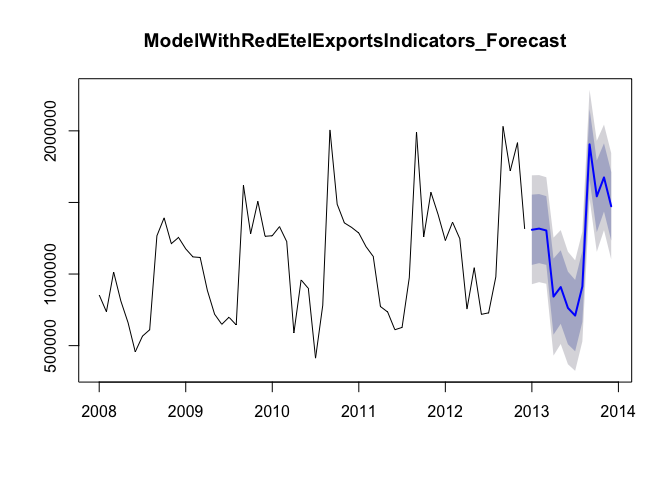
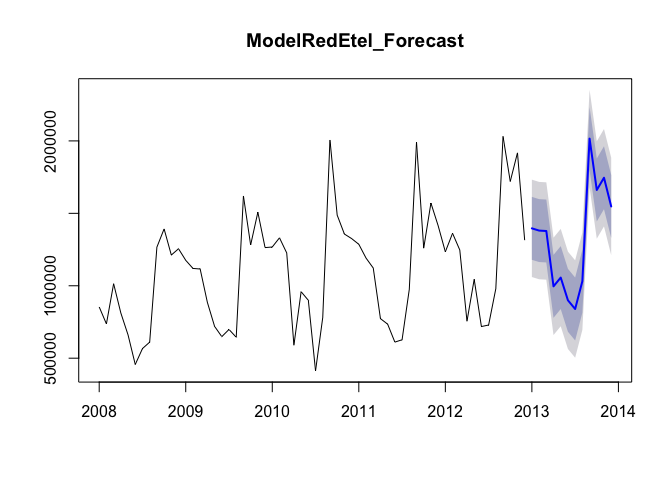
Add files via upload

diff --git a/analysis/data/5.md b/analysis/data/5.md
@@ -17,11 +17,10 @@ July 7, 2016
 * 5.2.1.2 [Forecast ModelWithLowCorrelatingIndicators](#id-section5.2.1.2)
 * 5.2.2   [Forecast ModelWithTrendAndSeasonalityOnly](#id-section5.2.2)
 * 5.2.3   [Forecast ModelWithRedEtelExportsIndicators](#id-section5.2.3)
-* 5.2.4   [Forecast ModelWithRedEtelExportsIndicators](#id-section5.2.4)
-* 5.2.5   [Forecast ModelTotalRedEtel](#id-section5.2.5)
-* 5.2.6   [Forecast ModelWithTotalUrbanoExport](#id-section5.2.6)
-* 5.2.7   [Forecast ModelWithNationalHolidays](#id-section5.2.7)
-* 5.2.8   [Forecast ModelWithInfluenceNationalHoliday](#id-section5.2.8)
+* 5.2.4   [Forecast ModelTotalRedEtel](#id-section5.2.4)
+* 5.2.5   [Forecast ModelWithTotalUrbanoExport](#id-section5.2.5)
+* 5.2.6   [Forecast ModelWithNationalHolidays](#id-section5.2.6)
+* 5.2.7   [Forecast ModelWithInfluenceNationalHoliday](#id-section5.2.7)
 
 ****************************
 <div id='id-section5.0'/>
@@ -953,267 +952,10 @@ cor(RedEtelAsIs_2013, RedEtelPlan_2013)
 ## [1] 0.9570811
 ```
 
+
 ****************************
 <div id='id-section5.2.4'/>
-####  5.2.4 Forecast ModelWithRedEtelExportsIndicators
-
-Shorten the variable in ModelWithRedEtelExportsIndicators by one year in order to be able to produce a forecast for 2013.
-
-
-```r
-ModelWithRedEtelExportsIndicators_2012 <- tslm(RedEtelAsIs_2012 ~ trend + season + CEPI_2012 + UrbanoExports_2012 + AEPI_2012 + GlobalisationPartyMembers_2012)
-ModelRedEtelWithCEPI_2012 <- tslm(RedEtelAsIs_2012 ~ trend + season + CEPI_2012)
-ModelRedEtelWithTrendAndSeasonalityOnly_2012 <- tslm(RedEtelAsIs_2012 ~ trend + season)
-summary(ModelWithRedEtelExportsIndicators_2012) 
-```
-
-```
-## 
-## Call:
-## tslm(formula = RedEtelAsIs_2012 ~ trend + season + CEPI_2012 + 
-##     UrbanoExports_2012 + AEPI_2012 + GlobalisationPartyMembers_2012)
-## 
-## Residuals:
-##     Min      1Q  Median      3Q     Max 
-## -310063  -71933    4597   67551  274590 
-## 
-## Coefficients:
-##                                  Estimate Std. Error t value Pr(>|t|)    
-## (Intercept)                    -9.586e+06  8.006e+06  -1.197 0.237735    
-## trend                          -1.735e+03  1.159e+04  -0.150 0.881706    
-## season2                        -7.592e+04  9.831e+04  -0.772 0.444211    
-## season3                        -1.199e+05  1.115e+05  -1.075 0.288386    
-## season4                        -4.874e+05  1.066e+05  -4.571 4.07e-05 ***
-## season5                        -4.521e+05  1.083e+05  -4.176 0.000142 ***
-## season6                        -6.078e+05  1.100e+05  -5.524 1.79e-06 ***
-## season7                        -6.979e+05  1.206e+05  -5.785 7.51e-07 ***
-## season8                        -5.229e+05  1.239e+05  -4.221 0.000123 ***
-## season9                         4.834e+05  1.231e+05   3.927 0.000306 ***
-## season10                        1.208e+05  1.224e+05   0.987 0.329051    
-## season11                        2.082e+05  1.231e+05   1.692 0.097935 .  
-## season12                       -4.863e+04  1.384e+05  -0.351 0.727096    
-## CEPI_2012                       1.729e+05  1.039e+05   1.663 0.103492    
-## UrbanoExports_2012             -1.351e-01  2.856e-01  -0.473 0.638617    
-## AEPI_2012                      -5.991e+04  3.374e+04  -1.776 0.082849 .  
-## GlobalisationPartyMembers_2012  8.701e+00  2.135e+01   0.407 0.685674    
-## ---
-## Signif. codes:  0 '***' 0.001 '**' 0.01 '*' 0.05 '.' 0.1 ' ' 1
-## 
-## Residual standard error: 142800 on 43 degrees of freedom
-## Multiple R-squared:  0.9057,	Adjusted R-squared:  0.8707 
-## F-statistic: 25.82 on 16 and 43 DF,  p-value: < 2.2e-16
-```
-
-```r
-summary(ModelRedEtelWithCEPI_2012) 
-```
-
-```
-## 
-## Call:
-## tslm(formula = RedEtelAsIs_2012 ~ trend + season + CEPI_2012)
-## 
-## Residuals:
-##     Min      1Q  Median      3Q     Max 
-## -334534  -92127   16612   92404  275097 
-## 
-## Coefficients:
-##             Estimate Std. Error t value Pr(>|t|)    
-## (Intercept)  3858853    3094908   1.247 0.218768    
-## trend           9967       3956   2.520 0.015279 *  
-## season2        -9465      94668  -0.100 0.920796    
-## season3       -10516      96386  -0.109 0.913594    
-## season4      -403828      95363  -4.235 0.000108 ***
-## season5      -350826      95192  -3.685 0.000600 ***
-## season6      -515220      95050  -5.420 2.12e-06 ***
-## season7      -577095      96073  -6.007 2.83e-07 ***
-## season8      -392424      96037  -4.086 0.000174 ***
-## season9       580947      95234   6.100 2.05e-07 ***
-## season10      215762      94776   2.277 0.027514 *  
-## season11      289327      94502   3.062 0.003670 ** 
-## season12       94750      95840   0.989 0.328019    
-## CEPI_2012     -29550      32004  -0.923 0.360650    
-## ---
-## Signif. codes:  0 '***' 0.001 '**' 0.01 '*' 0.05 '.' 0.1 ' ' 1
-## 
-## Residual standard error: 148100 on 46 degrees of freedom
-## Multiple R-squared:  0.8915,	Adjusted R-squared:  0.8608 
-## F-statistic: 29.07 on 13 and 46 DF,  p-value: < 2.2e-16
-```
-
-```r
-summary(ModelRedEtelWithTrendAndSeasonalityOnly_2012) 
-```
-
-```
-## 
-## Call:
-## tslm(formula = RedEtelAsIs_2012 ~ trend + season)
-## 
-## Residuals:
-##     Min      1Q  Median      3Q     Max 
-## -361228  -84581   16694   93341  249192 
-## 
-## Coefficients:
-##             Estimate Std. Error t value Pr(>|t|)    
-## (Intercept)  1001982      71882  13.939  < 2e-16 ***
-## trend           6466       1125   5.746 6.50e-07 ***
-## season2       -21921      93555  -0.234 0.815761    
-## season3       -31292      93576  -0.334 0.739565    
-## season4      -419920      93609  -4.486 4.67e-05 ***
-## season5      -365782      93657  -3.906 0.000299 ***
-## season6      -529038      93718  -5.645 9.24e-07 ***
-## season7      -595687      93792  -6.351 7.90e-08 ***
-## season8      -410470      93880  -4.372 6.77e-05 ***
-## season9       567584      93981   6.039 2.35e-07 ***
-## season10      206490      94095   2.194 0.033178 *  
-## season11      284738      94223   3.022 0.004056 ** 
-## season12       80069      94364   0.849 0.400451    
-## ---
-## Signif. codes:  0 '***' 0.001 '**' 0.01 '*' 0.05 '.' 0.1 ' ' 1
-## 
-## Residual standard error: 147900 on 47 degrees of freedom
-## Multiple R-squared:  0.8895,	Adjusted R-squared:  0.8613 
-## F-statistic: 31.53 on 12 and 47 DF,  p-value: < 2.2e-16
-```
-
-Add "newdata" to the 2013 indicator values for the forecast.
-
-
-```r
-ModelWithRedEtelExportsIndicators_Forecast <- forecast(ModelWithRedEtelExportsIndicators_2012, newdata=data.frame(CEPI_2012=CEPI_2013, UrbanoExports_2012 = UrbanoExports_2013, AEPI_2012 = AEPI_2013, GlobalisationPartyMembers_2012 = GlobalisationPartyMembers_2013),h=12)
-ModelRedEtelWithCEPI_Forecast <- forecast(ModelRedEtelWithCEPI_2012, , newdata=data.frame(CEPI_2012=CEPI_2013), h=12)
-ModelRedEtelWithTrendAndSeasonalityOnly_Forecast <- forecast(ModelRedEtelWithTrendAndSeasonalityOnly_2012,h=12)
-
-plot(ModelWithRedEtelExportsIndicators_Forecast, main="ModelWithRedEtelExportsIndicators_Forecast")
-```
-
-![](5_files/figure-html/unnamed-chunk-26-1.png)<!-- -->
-
-```r
-plot(ModelRedEtelWithCEPI_Forecast, main="ModelRedEtelWithEPI_Forecast")
-```
-
-![](5_files/figure-html/unnamed-chunk-26-2.png)<!-- -->
-
-```r
-plot(ModelRedEtelWithTrendAndSeasonalityOnly_Forecast, main="ModelRedEtelWithTrendAndSeasonalityOnly_Forecast")
-```
-
-![](5_files/figure-html/unnamed-chunk-26-3.png)<!-- -->
-
-```r
-ModelWithRedEtelExportsIndicators_Forecast
-```
-
-```
-##          Point Forecast     Lo 80   Hi 80     Lo 95   Hi 95
-## Jan 2013      1309201.5 1063835.7 1554567  929018.9 1689384
-## Feb 2013      1317299.7 1076084.5 1558515  943548.2 1691051
-## Mar 2013      1304123.3 1064147.8 1544099  932292.6 1675954
-## Apr 2013       842437.3  576699.8 1108175  430689.7 1254185
-## May 2013       909234.6  652670.4 1165799  511700.5 1306769
-## Jun 2013       763091.2  509486.3 1016696  370142.5 1156040
-## Jul 2013       709787.4  460773.9  958801  323952.8 1095622
-## Aug 2013       912939.9  665434.4 1160445  529442.0 1296438
-## Sep 2013      1905573.4 1660339.1 2150808 1525594.5 2285552
-## Oct 2013      1542594.5 1292534.3 1792655 1155138.2 1930051
-## Nov 2013      1674790.3 1436983.4 1912597 1306319.9 2043261
-## Dec 2013      1473404.1 1234164.6 1712644 1102713.9 1844094
-```
-
-```r
-ModelRedEtelWithCEPI_Forecast
-```
-
-```
-##          Point Forecast     Lo 80   Hi 80     Lo 95   Hi 95
-## Jan 2013      1378827.7 1159920.8 1597735 1039935.8 1717720
-## Feb 2013      1361599.7 1142396.4 1580803 1022248.9 1700951
-## Mar 2013      1355740.1 1135980.5 1575500 1015528.2 1695952
-## Apr 2013       987170.4  769322.1 1205019  649917.3 1324424
-## May 2013      1038318.9  819316.3 1257322  699278.9 1377359
-## Jun 2013       880937.5  661836.1 1100039  541744.5 1220131
-## Jul 2013       814254.1  593861.1 1034647  473061.6 1155446
-## Aug 2013      1008891.5  789131.9 1228651  668679.6 1349103
-## Sep 2013      1992229.7 1772226.0 2212233 1651639.9 2332819
-## Oct 2013      1642921.1 1423918.5 1861924 1303881.1 1981961
-## Nov 2013      1720543.3 1500150.3 1940936 1379350.8 2061736
-## Dec 2013      1524113.3 1304109.6 1744117 1183523.5 1864703
-```
-
-```r
-ModelRedEtelWithTrendAndSeasonalityOnly_Forecast
-```
-
-```
-##          Point Forecast     Lo 80   Hi 80     Lo 95   Hi 95
-## Jan 2013      1396410.2 1179316.7 1613504 1060414.4 1732406
-## Feb 2013      1380955.2 1163861.7 1598049 1044959.4 1716951
-## Mar 2013      1378050.6 1160957.1 1595144 1042054.8 1714046
-## Apr 2013       995887.8  778794.3 1212981  659892.0 1331884
-## May 2013      1056492.4  839398.9 1273586  720496.6 1392488
-## Jun 2013       899702.0  682608.5 1116795  563706.2 1235698
-## Jul 2013       839519.6  622426.1 1056613  503523.8 1175515
-## Aug 2013      1031202.0  814108.5 1248295  695206.2 1367198
-## Sep 2013      2015722.2 1798628.7 2232816 1679726.4 2351718
-## Oct 2013      1661094.6 1444001.1 1878188 1325098.8 1997090
-## Nov 2013      1745808.8 1528715.3 1962902 1409813.0 2081805
-## Dec 2013      1547605.8 1330512.3 1764699 1211610.0 1883602
-```
-
-In order to be able to correlate the Forecast with the As Is data, it is necessary to convert the Point 
-
-<strong>Estimator into a time series.</strong>
-
-
-```r
-ModelWithRedEtelExportsIndicators_Forecast_df <-as.data.frame(ModelWithRedEtelExportsIndicators_Forecast) 
-ModelRedEtelWithCEPI_Forecast_df <-as.data.frame(ModelRedEtelWithCEPI_Forecast) 
-ModelRedEtelWithTrendAndSeasonalityOnly_Forecast_df <-as.data.frame(ModelRedEtelWithTrendAndSeasonalityOnly_Forecast)
-ModelWithRedEtelExportsIndicators_PointForecast <- ts(ModelWithRedEtelExportsIndicators_Forecast_df$"Point Forecast", start=c(2013,1), end=c(2013,12), frequency=12)
-ModelRedEtelWithCEPI_PointForecast <- ts(ModelRedEtelWithCEPI_Forecast_df$"Point Forecast", start=c(2013,1), end=c(2013,12), frequency=12)
-ModelRedEtelWithTrendAndSeasonalityOnly_PointForecast <- ts(ModelRedEtelWithTrendAndSeasonalityOnly_Forecast_df$"Point Forecast", start=c(2013,1), end=c(2013,12), frequency=12)
-```
-
-Correlation of the forecasts and As Is data. As a comparison, the correlation of the As Is data for 2013 with the Plan Data.
-
-
-```r
-cor(ModelWithRedEtelExportsIndicators_PointForecast, RedEtelAsIs_2013) 
-```
-
-```
-## [1] 0.9160346
-```
-
-```r
-cor(ModelRedEtelWithCEPI_PointForecast, RedEtelAsIs_2013) 
-```
-
-```
-## [1] 0.9314049
-```
-
-```r
-cor(ModelRedEtelWithTrendAndSeasonalityOnly_PointForecast, RedEtelAsIs_2013) 
-```
-
-```
-## [1] 0.9288154
-```
-
-```r
-cor(RedEtelAsIs_2013, RedEtelPlan_2013)
-```
-
-```
-## [1] 0.9570811
-```
-
-****************************
-<div id='id-section5.2.5'/>
-####  5.2.5 Forecast ModelTotalRedEtel
+####  5.2.4 Forecast ModelTotalRedEtel
 
 Shorten the variables in ModelTotalRedEtel by one year in order to be able to produce a forecast for 2013.
 
@@ -1264,7 +1006,7 @@ ModelRedEtel_Forecast <- forecast(ModelRedEtel_2012,h=12)
 plot(ModelRedEtel_Forecast,main="ModelRedEtel_Forecast")
 ```
 
-![](5_files/figure-html/unnamed-chunk-30-1.png)<!-- -->
+![](5_files/figure-html/unnamed-chunk-26-1.png)<!-- -->
 
 ```r
 ModelRedEtel_Forecast
@@ -1308,8 +1050,8 @@ cor(RedEtelPlan_2013, RedEtelAsIs_2013)
 ```
 
 ****************************
-<div id='id-section5.2.6'/>
-####  5.2.6 Forecast ModelWithTotalUrbanoExports
+<div id='id-section5.2.5'/>
+####  5.2.5 Forecast ModelWithTotalUrbanoExports
 
 Shorten the variables in ModelWithTotalUrbanoExports by one year in order to be able to produce a forecast for 2013.
 
@@ -1360,7 +1102,7 @@ ModelWithTotalUrbanoExports_Forecast <- forecast(ModelWithTotalUrbanoExports_201
 plot(ModelWithTotalUrbanoExports_Forecast,main="ModelWithTotalUrbanoExports_Forecast")
 ```
 
-![](5_files/figure-html/unnamed-chunk-34-1.png)<!-- -->
+![](5_files/figure-html/unnamed-chunk-30-1.png)<!-- -->
 
 ```r
 ModelWithTotalUrbanoExports_Forecast
@@ -1412,8 +1154,8 @@ cor(RedEtelAsIs_2013, RedEtelPlan_2013)
 ```
 
 ****************************
-<div id='id-section5.2.7'/>
-####  5.2.7 Forecast ModelWithNationalHolidays 
+<div id='id-section5.2.6'/>
+####  5.2.6 Forecast ModelWithNationalHolidays 
 
 Shorten the variables in ModelWithNationalHolidays by one year in order to be able to produce a forecast for 2013.
 
@@ -1464,7 +1206,7 @@ ModelWithNationalHolidays_Forecast <- forecast(ModelWithNationalHolidays_2012, n
 plot(ModelWithNationalHolidays_Forecast,main="ModelWithNationalHolidays_Forecast")
 ```
 
-![](5_files/figure-html/unnamed-chunk-38-1.png)<!-- -->
+![](5_files/figure-html/unnamed-chunk-34-1.png)<!-- -->
 
 ```r
 ModelWithNationalHolidays_Forecast
@@ -1508,8 +1250,8 @@ cor(ModelWithNationalHolidays_PointForecast, RedEtelAsIs_2013)
 ```
 
 ****************************
-<div id='id-section5.2.8'/>
-####  5.2.8 Forecast ModelWithInfluenceNationalHolidays
+<div id='id-section5.2.7'/>
+####  5.2.7 Forecast ModelWithInfluenceNationalHolidays
 
 Shorten the variables in ModelWithInfluenceNationalHolidays by one year in order to be able to produce a forecast for 2013.
 
@@ -1560,7 +1302,7 @@ ModelWithInfluenceNationalHolidays_Forecast <- forecast(ModelWithInfluenceNation
 plot(ModelWithInfluenceNationalHolidays_Forecast,main="ModelWithInfluenceNationalHolidays_Forecast")
 ```
 
-![](5_files/figure-html/unnamed-chunk-42-1.png)<!-- -->
+![](5_files/figure-html/unnamed-chunk-38-1.png)<!-- -->
 
 ```r
 ModelWithInfluenceNationalHolidays_Forecast
